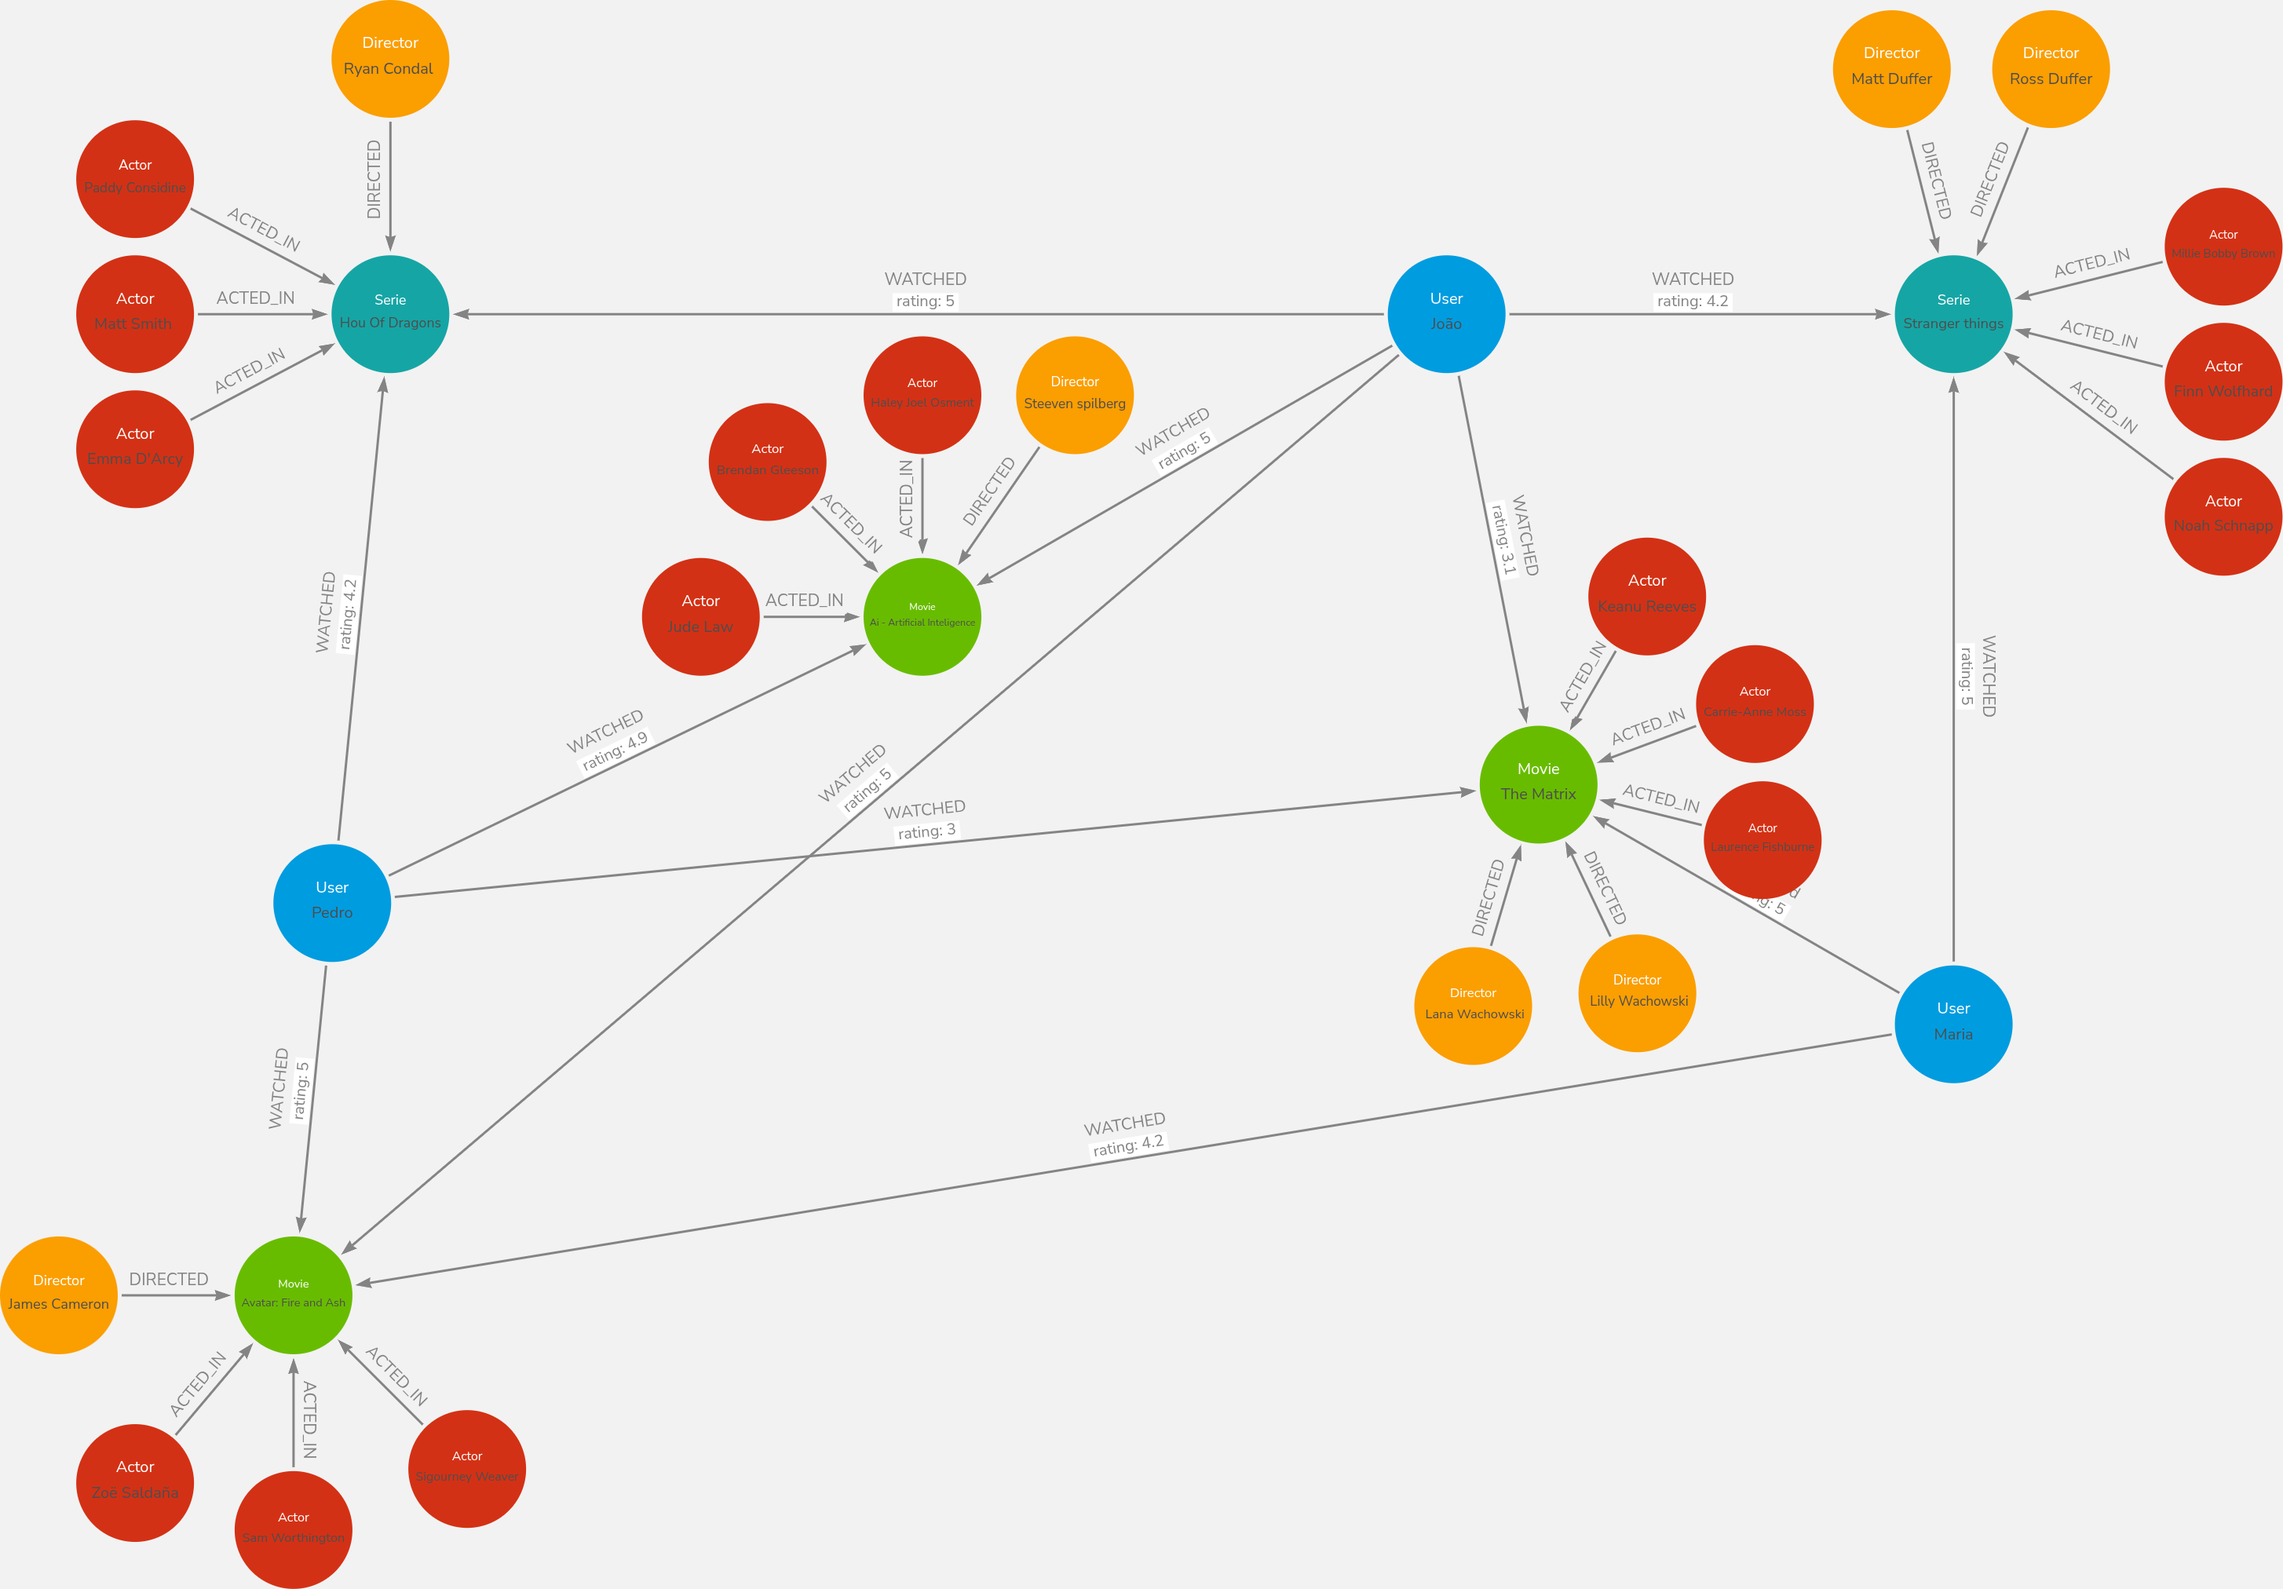
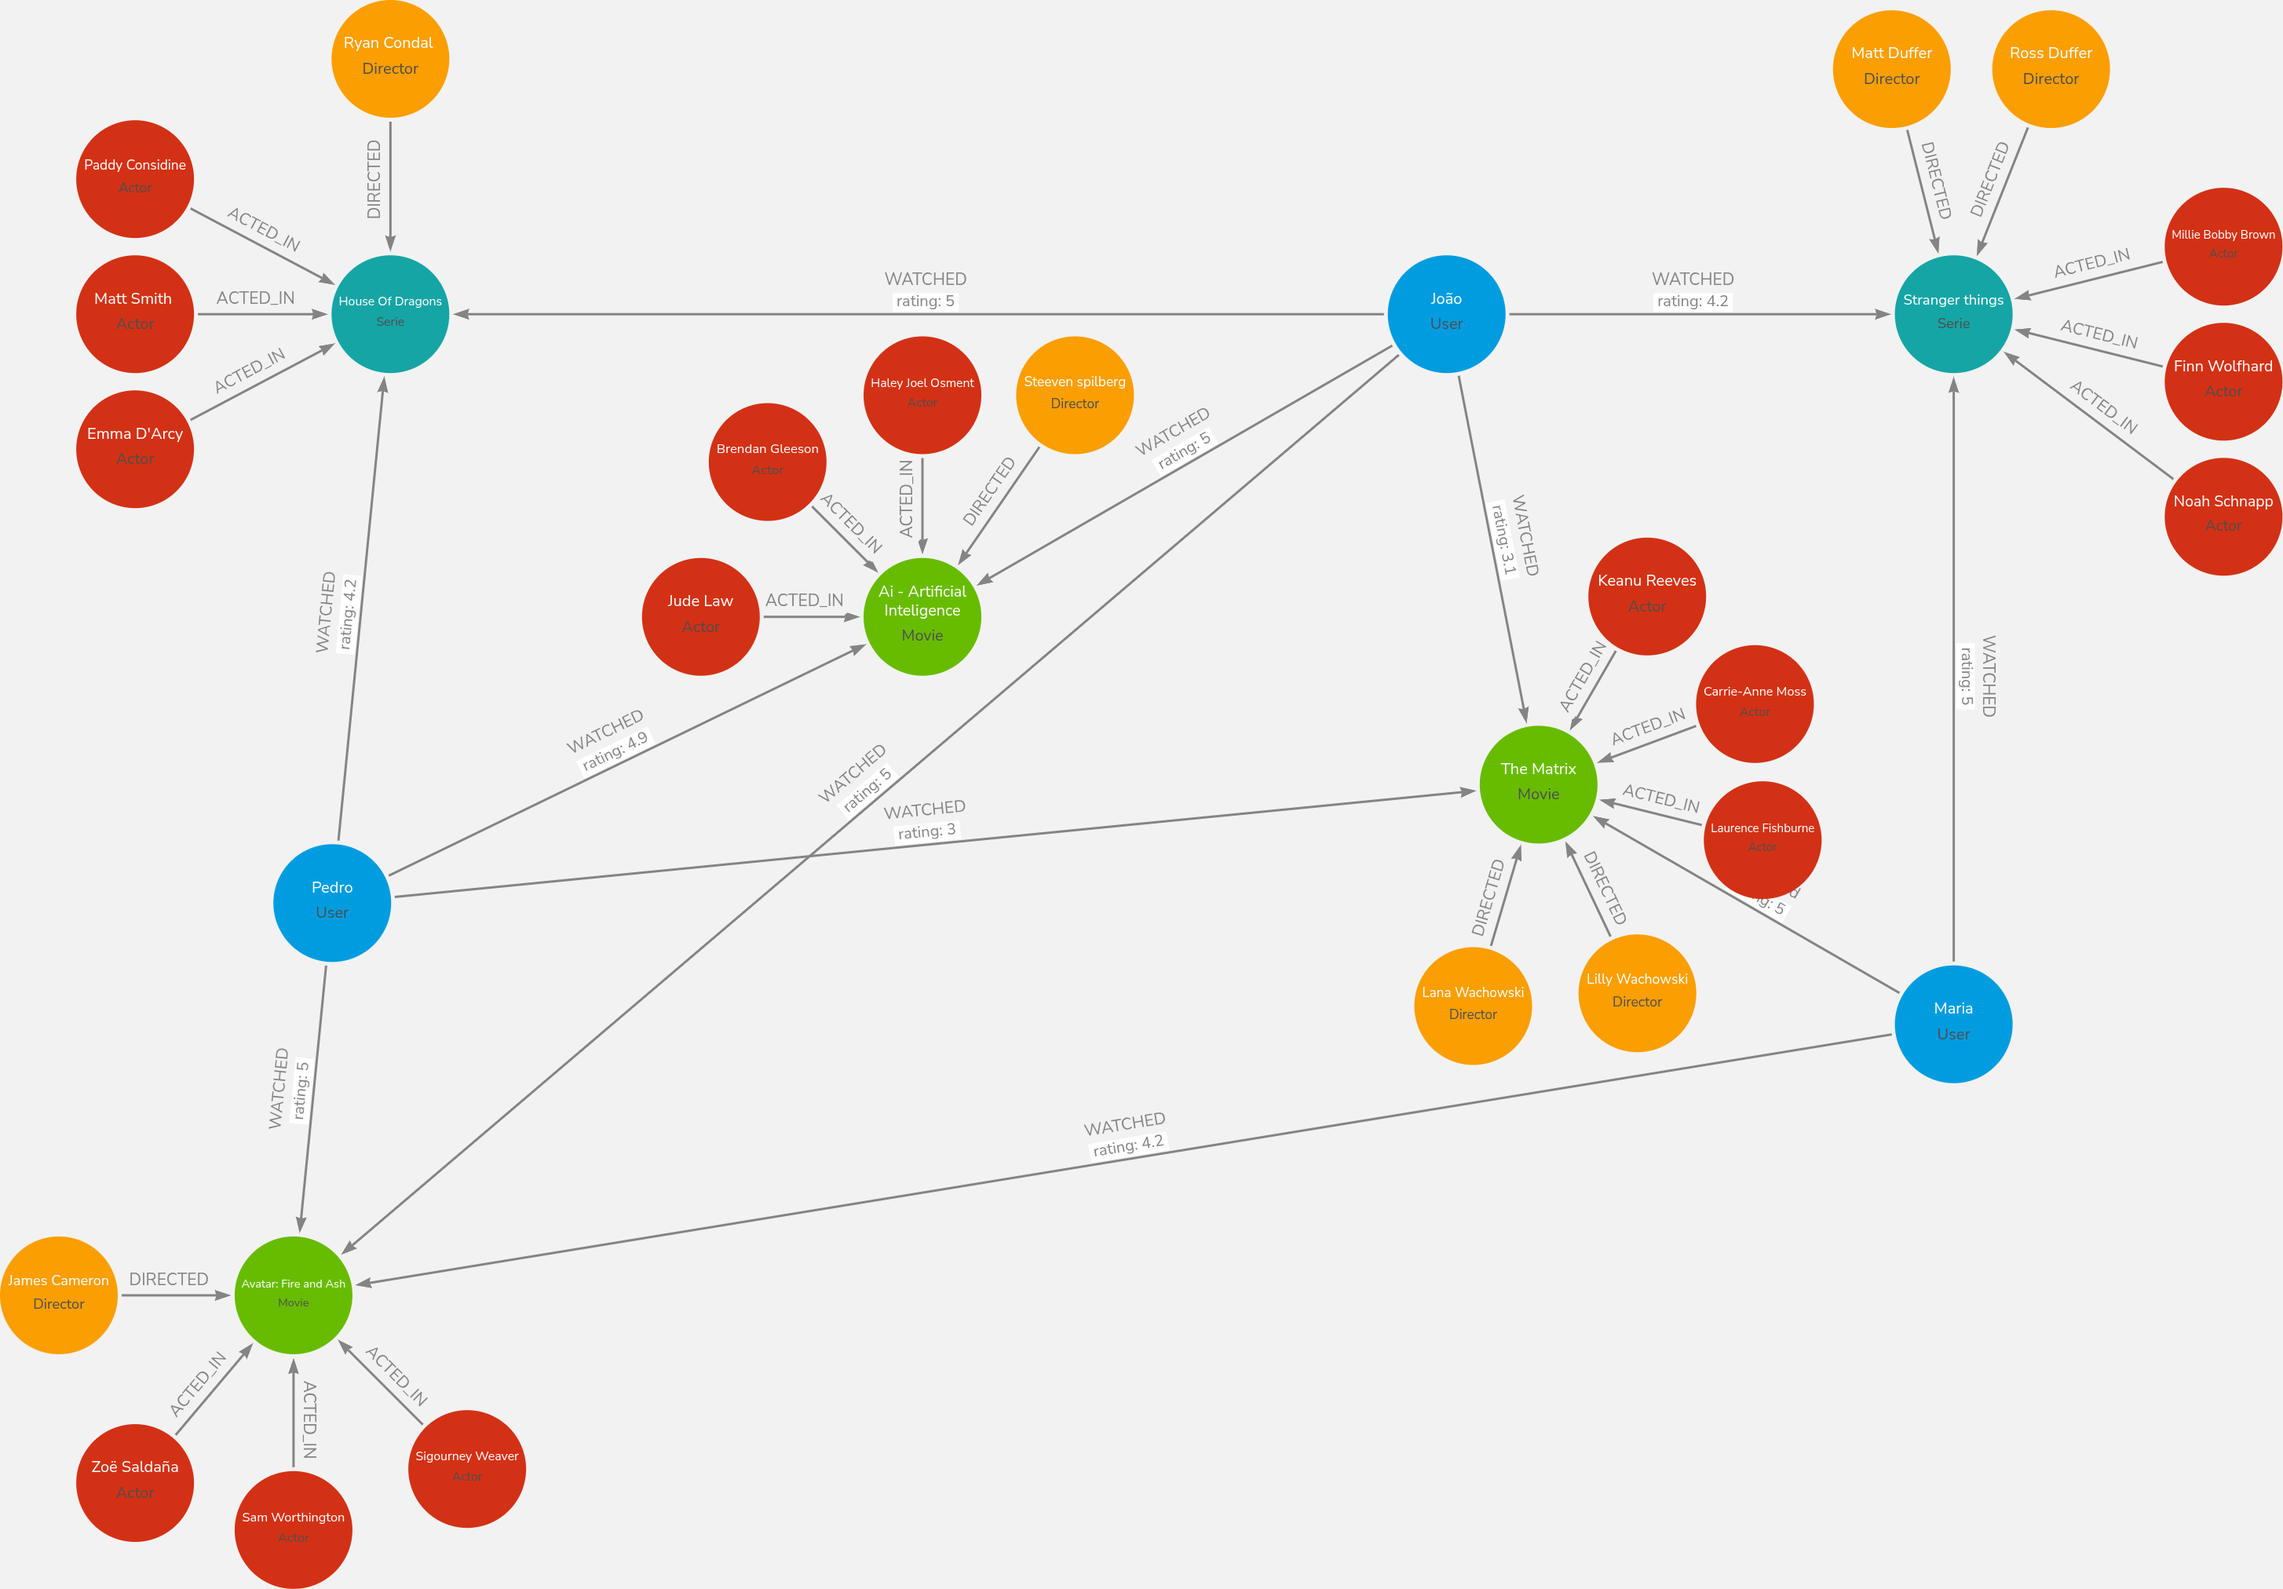
Corrigindo Captions e Labels

diff --git a/README.md b/README.md
@@ -10,18 +10,18 @@ Relacionamentos (conexões): WATCHED (com propriedade rating), ACTED_IN, DIRECTE
 
 ### Modelo de inserção de dados ao NEO4J
 ````cypher
-CREATE (n22:`Stranger things`)<-[:WATCHED {rating: 4.2}]-(n0:`João`)-[:WATCHED {rating: 5}]->(n1:`Ai - Artificial Inteligence`)<-[:DIRECTED]-(:`Steeven spilberg`),
-(:`Haley Joel Osment`)-[:ACTED_IN]->(n1)<-[:ACTED_IN]-(:`Jude Law`),
-(:`Brendan Gleeson`)-[:ACTED_IN]->(n1)<-[:WATCHED {rating: 4.9}]-(n28:Pedro)-[:WATCHED {rating: 3}]->(n17:`The Matrix`)<-[:DIRECTED]-(:` Lilly Wachowski`),
-(:`Ross Duffer`)-[:DIRECTED]->(n22)<-[:WATCHED {rating: 5}]-(n16:Maria)-[:Watched {rating: 5}]->(n17)<-[:DIRECTED]-(:` Lana Wachowski`),
-(:`Carrie-Anne Moss`)-[:ACTED_IN]->(n17)<-[:ACTED_IN]-(:`Laurence Fishburne`),
-(:`Keanu Reeves`)-[:ACTED_IN]->(n17)<-[:WATCHED {rating: 3.1}]-(n0)-[:WATCHED {rating: 5}]->(n34:`Hou Of Dragons`),
-(:`Finn Wolfhard`)-[:ACTED_IN]->(n22)<-[:ACTED_IN]-(:`Noah Schnapp`),
-(:`Millie Bobby Brown`)-[:ACTED_IN]->(n22)<-[:DIRECTED]-(:`Matt Duffer`),
-(n34)<-[:WATCHED {rating: 4.2}]-(n28)-[:WATCHED {rating: 5}]->(n29:`Avatar: Fire and Ash`)<-[:DIRECTED]-(:`James Cameron`),
-(:`Sam Worthington`)-[:ACTED_IN]->(n29)<-[:ACTED_IN]-(:`Zoë Saldaña`),
-(:`Sigourney Weaver`)-[:ACTED_IN]->(n29)<-[:WATCHED {rating: 4.2}]-(n16),
-(:`Ryan Condal `)-[:DIRECTED]->(n34)<-[:ACTED_IN]-(:`Matt Smith `),
-(:`Emma D'Arcy`)-[:ACTED_IN]->(n34)<-[:ACTED_IN]-(:`Paddy Considine`),
-(n0)-[:WATCHED {rating: 5}]->(n29)
+CREATE (`Stranger things`:Serie)<-[:WATCHED {rating: 4.2}]-(`João`:User)-[:WATCHED {rating: 5}]->(`Ai - Artificial Inteligence`:Movie)<-[:DIRECTED]-(:Director),
+(:Actor)-[:ACTED_IN]->(`Ai - Artificial Inteligence`)<-[:ACTED_IN]-(:Actor),
+(:Actor)-[:ACTED_IN]->(`Ai - Artificial Inteligence`)<-[:WATCHED {rating: 4.9}]-(Pedro:User)-[:WATCHED {rating: 3}]->(`The Matrix`:Movie)<-[:DIRECTED]-(:Director),
+(:Director)-[:DIRECTED]->(`Stranger things`)<-[:WATCHED {rating: 5}]-(Maria:User)-[:Watched {rating: 5}]->(`The Matrix`)<-[:DIRECTED]-(:Director),
+(:Actor)-[:ACTED_IN]->(`The Matrix`)<-[:ACTED_IN]-(:Actor),
+(:Actor)-[:ACTED_IN]->(`The Matrix`)<-[:WATCHED {rating: 3.1}]-(`João`)-[:WATCHED {rating: 5}]->(`House Of Dragons`:Serie),
+(:Actor)-[:ACTED_IN]->(`Stranger things`)<-[:ACTED_IN]-(:Actor),
+(:Actor)-[:ACTED_IN]->(`Stranger things`)<-[:DIRECTED]-(:Director),
+(`House Of Dragons`)<-[:WATCHED {rating: 4.2}]-(Pedro)-[:WATCHED {rating: 5}]->(`Avatar: Fire and Ash`:Movie)<-[:DIRECTED]-(:Director),
+(:Actor)-[:ACTED_IN]->(`Avatar: Fire and Ash`)<-[:ACTED_IN]-(:Actor),
+(:Actor)-[:ACTED_IN]->(`Avatar: Fire and Ash`)<-[:WATCHED {rating: 4.2}]-(Maria),
+(:Director)-[:DIRECTED]->(`House Of Dragons`)<-[:ACTED_IN]-(:Actor),
+(:Actor)-[:ACTED_IN]->(`House Of Dragons`)<-[:ACTED_IN]-(:Actor),
+(`João`)-[:WATCHED {rating: 5}]->(`Avatar: Fire and Ash`)
 ````
